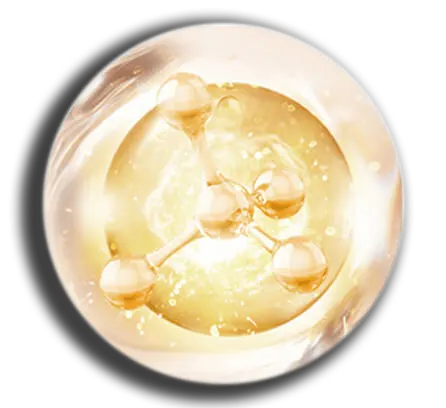
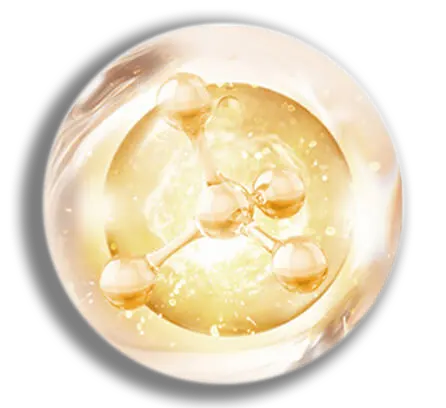
update img

Changed region(s): [[0.0291, 0.0294, 0.8744, 1.0], [0.8744, 0.6471, 0.9036, 0.6765]]

diff --git a/index.html b/index.html
@@ -942,7 +942,7 @@
                     </div>
                     <div class="row">
                       <div class="col-md-6">
-                        <img src="statics/img/img10c.jpg" />
+                        <img src="statics/img/img10c.webp" />
                       </div>
                       <div class="col-md-6">
                         <div class="head-t">
